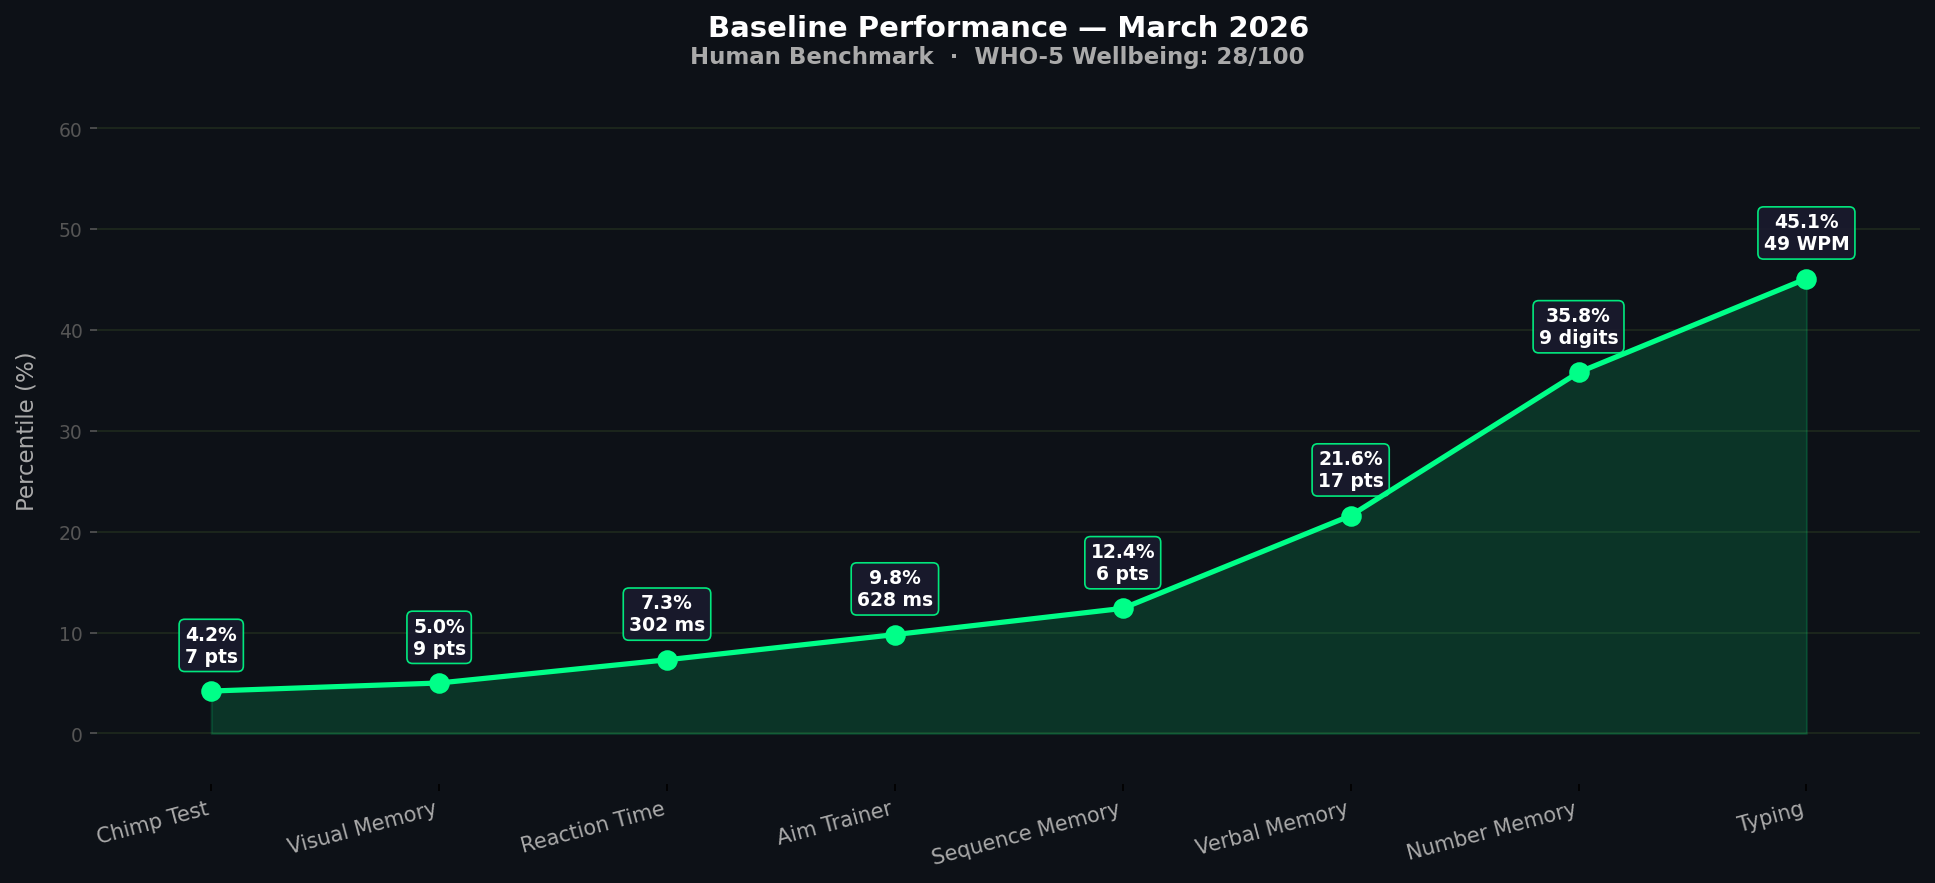
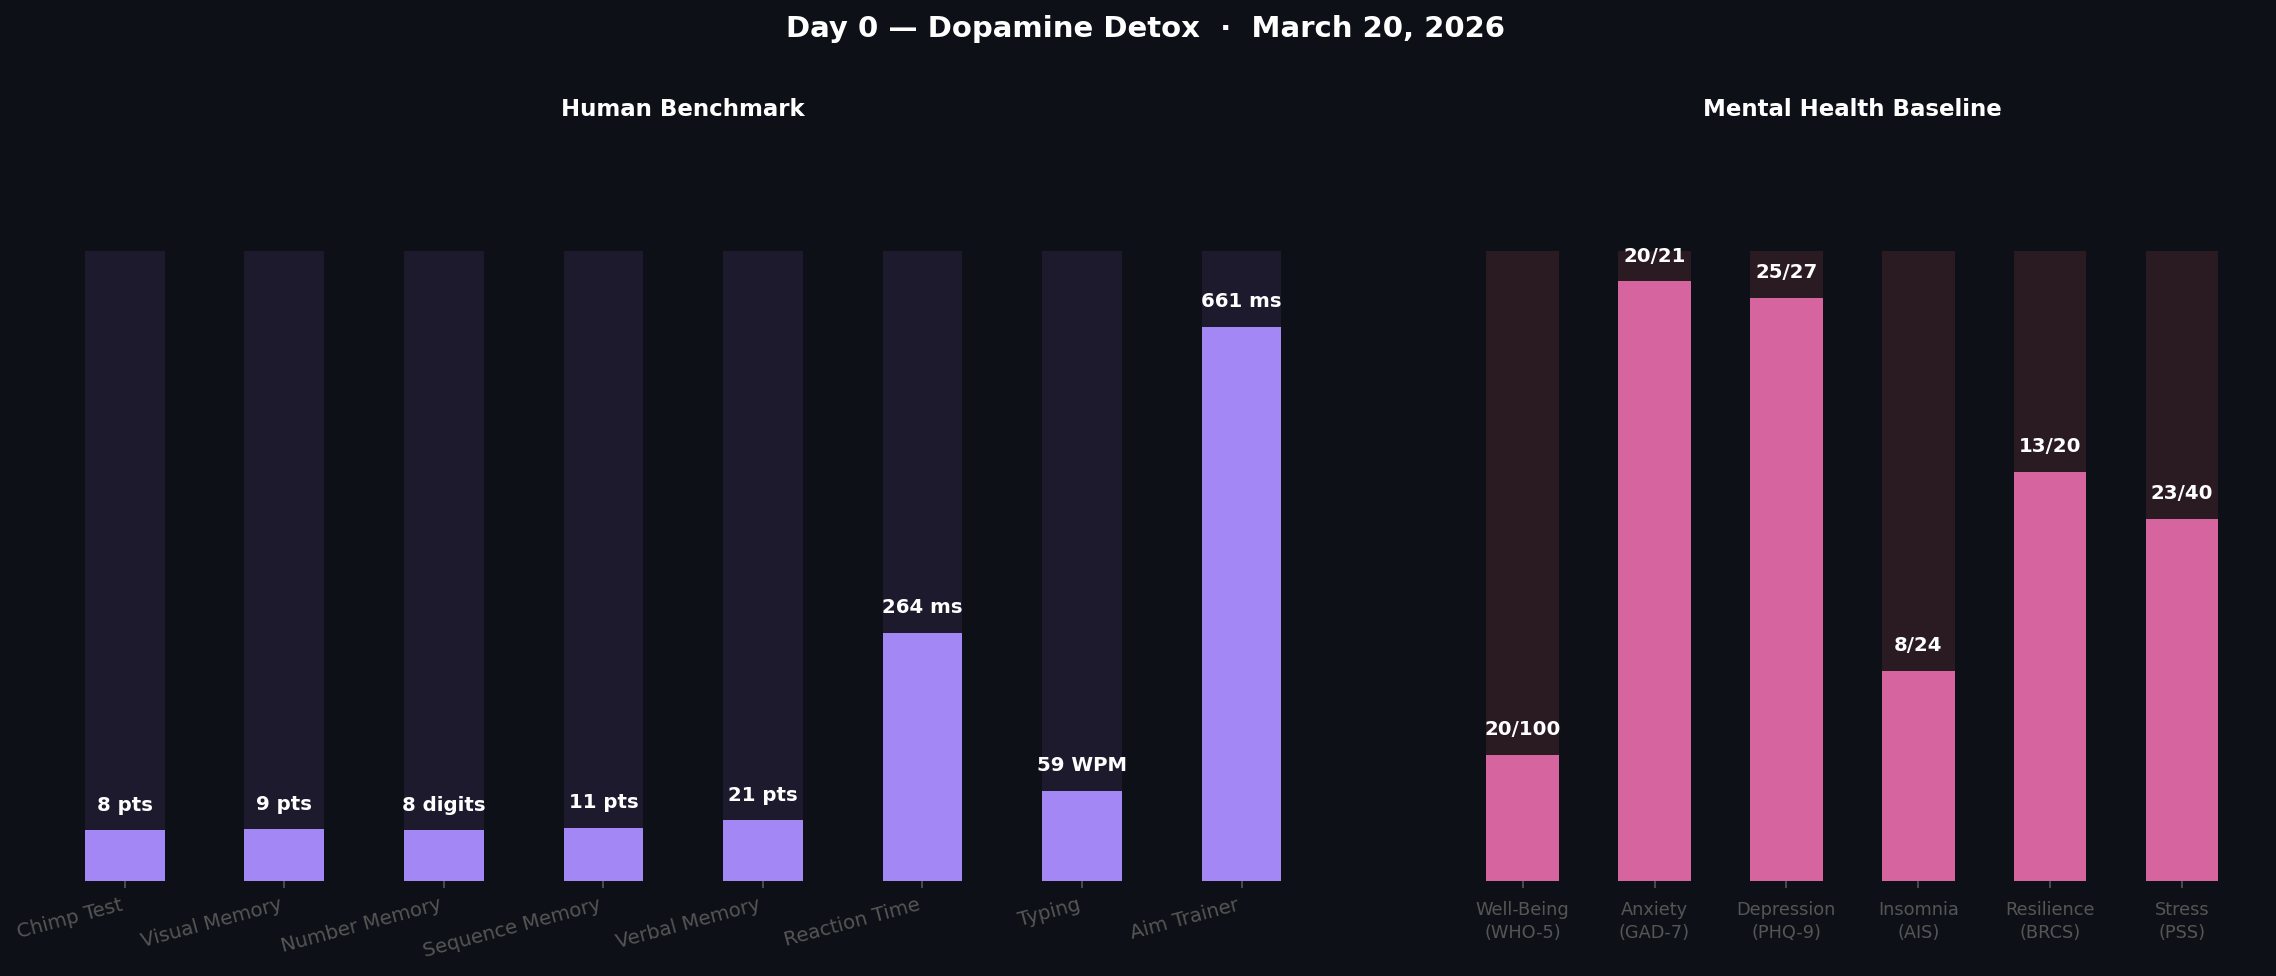
music blg update

diff --git a/content/posts/music_blog.md b/content/posts/music_blog.md
@@ -1,36 +1,53 @@
 ---
 title: "Silence is Loud"
-date: 2026-03-18T21:00:00+05:30
-description: "I quit chasing constant dopamine from March 19th till the end of 2026. This is that experiment."
+date: 2026-03-20T16:00:00+05:30
+description: "I quit chasing constant dopamine from March 21st till the end of 2026. This is that experiment."
 draft: false
 tags: ["music", "social-media", "detox", "dopamine", "brain-fog", "brain-rot"]
 ---
-As I was getting through my internship tasks for the day, I found myself mindlessly scrolling through Reels — my right thumb moving up and up, each dopamine hit pulling me in for one more. Before I knew it, evening had arrived and I hadn't finished a single task.
+The night before, I had everything I needed — time, a quiet room, and a clear task. As a Teaching Assistant for Linear Algebra, I was supposed to prepare a set of lab questions before heading to university the next morning. Simple enough. Except it wasn't.
 
-What scared me most was when I opened Digital Wellbeing. The numbers stared back at me like a verdict: Instagram at an all-time high of **5 hours** on average. WhatsApp at **1.5 hours** — but the truly unsettling part wasn't the time, it was the **250 times** I had opened it throughout the day. Games clocked in at another **2.5 hours**. It hit me hard.
+I sat down, opened my laptop, and somehow ended up deep in an F1 game, headphones on, fully committed to a virtual race I absolutely did not need to win. Between laps, I'd drift to Instagram — one reel, then another, then another. The lab questions sat in a tab I kept minimizing. I told myself I'd get to it. I didn't. Sleep arrived before the preparation did, and I let it.
 
-That's when the bigger picture came into focus — how much time I was hemorrhaging, and how much potential was slipping through my fingers with it. And then there was the physical toll: hours of audio pumping into my ears every day, a habit that, if left unchecked, could seriously damage my hearing.
+I woke up the next morning groggy, unrested, and already behind. Late nights have a way of collecting their debt in the early hours. But I got up anyway, got dressed, and headed out — telling myself I'd prepare on the metro. *I'll read on the way. It'll be fine.*
+
+And I did try. Without the option to scroll or play, my hands were idle, so I did the next best thing: I put on music, let it fill the silence, and skimmed through the material on my phone. A compromise. A dopamine substitute. It was better than nothing, but not by much.
+
+Then came the class.
+
+There weren't many students — a long weekend had kept most of them away, which, honestly, felt like mercy. But even in that small room, with a forgiving audience, I fumbled. My explanations were unclear, my thoughts scattered. I could feel the gap between what I knew and what I was able to articulate in that moment. It was uncomfortable in a way that went beyond embarrassment.
+
+Afterwards, I sat with a quiet, creeping fear — not about the class, but about me. About the pattern. The procrastination, the distraction, the need for constant stimulation, the inability to simply sit and do the thing I needed to do.
+
+*What is happening to me?*
+
+I didn't have to wonder for long. That evening, almost by accident, I opened Digital Wellbeing. The numbers stared back at me like a verdict: Instagram at an all-time high of **5 hours** on average. WhatsApp at **1.5 hours** — but the truly unsettling part wasn't the time, it was the **250 times** I had opened it throughout the day. Games clocked in at another **2.5 hours**.
+
+It hit me hard.
+
+That's when the bigger picture snapped into focus — how much time I was hemorrhaging, and how much potential was quietly slipping away with it. There was a physical cost too: hours of audio pumping into my ears every single day, a habit that, left unchecked, could do real damage over time.
 
 I acted immediately. I deleted every offending app. I set a WhatsApp timer to zero minutes, with four scheduled check-ins — 7 AM, 1 PM, 5 PM, and 9 PM, five minutes each. Then I switched on grayscale mode. Just like that, my phone turned into a brick.
 
 Something shifted almost instantly. Like my brain was being pulled apart at the seams.
 
-That discomfort was the signal I needed. I sat down in front of my laptop and did two things: started drafting a dopamine detox plan, and began writing this blog.
+That discomfort was the signal I needed. I sat down in front of my laptop, started drafting a dopamine detox plan, and began writing this.
 
 ### Protocol
 
 This is the protocol I will be following until the end of the year.
 
-1. **Music**: I deleted all my music apps from all my devices. Music was my most constant escape — headphones on from the moment I woke up to the moment I slept. It had to be the first thing to go.
-2. **Instagram**: I deleted the Instagram app from all my devices. It was my biggest time sink — 5–6 hours of mindless scrolling daily that left me with nothing at the end of it.
-3. **YouTube**: I disabled the YouTube app from my phone and on my laptop disabled it entirely. I only unblock it when I have a specific, purposeful reason to — and even then, strictly through the Unhook extension. This is because during my last detox attempt I watched a lot of youtube through incognito thinking it's fine but it breaks the whole purpose of the detox. YouTube and Google history are also disabled to prevent recommendations and Shorts from creeping in. No rabbit holes.
-4. **Games**: I deleted all games from all my devices. Pure time filler with zero return. Easy cut.
-5. **WhatsApp**: Can't fully delete this one — it's how I stay connected with people. So I caged it instead. Timer set to 0 minutes, four check-ins a day at 7 AM, 1 PM, 5 PM, and 9 PM five minutes each. I set alarms for these time slots on my phone so that I only use my phone during those times.
-6. **Headphones/Earphones**: This can only be used in emergency situations, such as office meetings or when I need to listen to audio without disturbing someone.
-7. **LLM Usage**: For now, using AI tools (Claude, ChatGPT, etc.) is fine. They are a legitimate part of my work and learning. But during the last detox attempt, usage crept up to a point where it started feeling like a different kind of endless loop — always asking, never sitting with a problem. If that pattern returns, I'll introduce time blocks for LLM use, the same way I did with WhatsApp. It's not a restriction yet, just a boundary I'm aware of and will enforce if needed.
-8. **Sunday Routine**: Every Sunday, I don't look at my phone at all. No check-ins, no alarms, nothing. It is the one day of the week that is completely phone-free. A full reset.
-9. **Overall Phone Time**: The phone only comes out during the four daily WhatsApp check-in windows. First 5 minutes are for WhatsApp, then an optional extra 5 minutes for anything else that genuinely needs attention — mail, calendar, anything urgent. Once the window closes, the phone goes back down.
-10. **Grayscale Mode**: All color stripped out of the phone display. No vibrant thumbnails, no eye-catching notifications, nothing visually rewarding about picking it up. A deliberately dull screen is a surprisingly effective deterrent.                                                            
+1. **Instagram**: Deleted from all devices, completely.
+2. **Listening to Music**: Deleted all music streaming apps from all devices, completely.
+3. **Games**: Deleted from all devices, completely.
+4. **YouTube**: Disabled on my phone. On my laptop, blocked entirely — only unblocked when there is a specific, purposeful reason to, and even then, strictly through the Unhook extension. Watch history and recommendations are also disabled to prevent Shorts and autoplay from pulling me back in.
+5. **WhatsApp & Phone Time**: Timer set to zero minutes. Four scheduled check-ins a day — 7 AM, 1 PM, 5 PM, and 9 PM — with alarms set for each. The first five minutes are for WhatsApp. An optional extra five minutes follows for anything else that genuinely needs attention: mail, calendar, something urgent. When the window closes, the phone goes down. Outside of these four windows, the phone does not come out at all.
+6. **Headphones & Earphones**: Reserved for genuine emergencies only — office meetings, or situations where audio needs to be heard without disturbing others. Years of constant audio adds up, and I am not willing to pay that bill.
+7. **Blocking Loopholes**: Any app or website that could become a distraction is blocked using a website blocker or app timer — no exceptions. Social media accounts are not to be kept logged in on any device other than the phone, so there is no easy back door through a laptop browser.
+8. **Purposeful Consumption**: No mindless news or media. The only content worth consuming is what directly contributes to growth — AI research, technical blogs, long-form YouTube videos, or podcasts that teach something useful. If it isn't moving me forward, it doesn't get my attention.
+9. **TV Time**: Strictly weekends only — Sunday by default, Saturday only if absolutely necessary. Not a daily habit, not a nightly wind-down. A deliberate choice, not a reflex.
+10. **Sleep**: In bed by 11 PM, up by 6 AM. No exceptions.
+11. **Emergencies & Social Pressure**: The check-in schedule holds except in two cases — someone is in physical danger, or something carries a financial or legal consequence if not addressed within hours. Everything else waits for the next window. The people closest to me know my schedule, so the pressure largely does not arise.                                                    
 
 ### Mark it on your calendar
 
@@ -38,14 +55,15 @@ I also placed a calendar event on March 19th, 2026, to mark the start of the dop
 
 ### How to Fill the Silence?
 
-Now that I have cut so much out of my daily 24 hours, I need to fill that silence — otherwise I'll just slip back into the old routine. Here's how I plan to do it:
+Now that I have cut so much out of my daily 24 hours, I need to fill that silence — otherwise I'll just slip back into the old routine. Here's how I plan to do it. These are targets, not rigid daily requirements — missing a day does not mean the experiment is over.
 
-1. **Silence during exercise and travel**: One commute will be in complete silence — just me and my thoughts. The other I'll use to read.
-2. **Reading**: At least 1 hour a day — books, articles, research papers, anything that helps me grow.
-3. **DSA**: At least 1.5 to 2 hours a day on LeetCode, solving problems and learning Data Structures and Algorithms along the way.
-4. **Journaling**: 5 minutes every morning and 5 minutes every night in my diary.
-5. **Maths**: Something I have wanted to do for a long time. Since AI is fundamentally built on mathematics, I want to actually understand it — Linear Algebra, Calculus, the works. At least 30 minutes to 1 hour daily.
-6. **AI Fundamentals**: Another thing I have been wanting to do for a long time. At least 30 minutes to 1 hour daily — understanding the foundations, not just using the tools.
+1. **Silence during exercise and travel**: Morning commute is for reading. Evening commute is just me and my thoughts — no audio, no screen, nothing. Exercise is the same — no distractions, just presence.
+2. **Reading**: At least 1 hour a day — books, articles, blogs, anything worth reading.
+3. **Physical Movement**: At least 30 minutes of movement every day, non-negotiable.
+4. **DSA**: At least 1.5 hours a day on LeetCode, solving problems and learning Data Structures and Algorithms along the way.
+5. **Journaling**: 5 minutes every morning and 5 minutes every night in my diary.
+6. **Maths**: At least 30 minutes daily — Linear Algebra, Calculus, the works. Since AI is fundamentally built on mathematics, I want to actually understand it, not just use it.
+7. **AI Fundamentals**: At least 30 minutes daily — understanding the foundations, not just using the tools.
 
 ### What if I Slip or Break the Routine?
 
@@ -55,9 +73,13 @@ So instead of quitting, I'll document it. Every time I break the routine, I'll l
 
 This won't be easy. Ups and downs are expected. The goal isn't perfection — it's to keep going.
 
-### What if I Get Negative Thoughts? 
+### What if I Get Negative Thoughts?
 
-I anticipate this will happen, especially in the beginning. Usually, I use music to drown out weird or sad thoughts. Now, I will face them. I plan to simply observe them without reacting, and see if the silence eventually helps me process them better. I believe that over time, these thoughts will diminish.
+I anticipate this will happen, especially in the beginning. Usually, I use music to drown out weird or sad thoughts. Now, I will face them. I plan to simply observe them without reacting, and see if the silence eventually helps me process them better.
+
+But if things go too far south, I won't just sit and suffer. I'll pull myself out by stepping into a hobby, taking a walk in nature, or watching something on TV — and then journal it out somewhere I can be completely honest with myself. No bottling it up, just getting it out of my head and onto the page.
+
+I believe that over time, these thoughts will diminish. The silence that once felt uncomfortable will start to feel like home.
 
 ### What about accidental music? 
 
@@ -69,31 +91,54 @@ Before I begin, I want to establish a baseline — an honest snapshot of where m
 
 I ran two sets of tests:
 
-**Human Benchmark** — a cognitive test suite measuring reaction time, memory, and processing speed.
+**Human Benchmark** — a cognitive test suite measuring different aspects of brain performance. Eight tests in total:
 
-**WHO-5 Wellbeing Index** — a standardised mental wellbeing questionnaire scored out of 100.
+- **Chimp Test**: How well you remember and sequence visual information, like a chimpanzee memory task.
+- **Visual Memory**: How many tiles you can remember and recall on a grid.
+- **Number Memory**: The longest number you can hold in your working memory.
+- **Sequence Memory**: How long you can follow and repeat a growing pattern.
+- **Verbal Memory**: How many words you can remember across repeated rounds.
+- **Reaction Time**: How fast you respond to a visual stimulus.
+- **Typing**: How fast and accurately you type, measured in words per minute.
+- **Aim Trainer**: How quickly you can click on targets — a measure of motor precision and focus.
+
+**Mental Health Baseline** — six standardised tests measuring different dimensions of mental wellbeing:
+
+- **WHO-5 Well-Being Index**: Overall psychological wellbeing, scored out of 100.
+- **GAD-7**: Measures anxiety severity, scored out of 21.
+- **PHQ-9**: Screens for depression severity, scored out of 27.
+- **Athens Insomnia Scale (AIS)**: Measures sleep quality, scored out of 24. A score above 6 indicates insomnia.
+- **Brief Resilient Coping Scale (BRCS)**: Measures how well you cope with stress, scored out of 20.
+- **Perceived Stress Scale (PSS)**: Measures how stressed you feel in general, scored out of 40.
 
 ![Baseline Cognitive Performance](/images/graph1.png)
 
-The scores speak for themselves — especially the wellbeing score, which the test flags as concerning.
+The numbers are on the graph — and they are not flattering. A well-being score of 20 out of 100. Anxiety at 20 out of 21. Depression at 25 out of 27. Insomnia above the clinical cutoff. These are not numbers I expected to see staring back at me, but they are honest, and that is the point.
 
-This is the before. I will repeat these exact tests at the halfway point and again on January 2nd, 2027 — and report back with the full results.
+This is the before. I will repeat these tests every week to track how things shift over time — and on January 2nd, 2027, I will bring it all together with the full results and a combined graph showing everything from Day 0 to the end.
 
 You can take the same tests yourself here:
 - [Human Benchmark](https://humanbenchmark.com)
-- [WHO-5 Wellbeing Index](https://www.mymentalhealth.guide/get-tested/well-being-test-who-5)
+- [Mental Health Tests](https://www.mymentalhealth.guide/get-tested)
 
 
 ### My Hypothesis
 
-I am treating this strictly as an experiment. My hypothesis is that by removing the constant dopamine hits from music, my baseline boredom will increase, forcing my brain to seek stimulation through coding, reading, and maths instead.
+I am treating this strictly as an experiment, and every experiment needs a hypothesis.
 
-I also believe that silence is necessary for original thought. I expect that without the constant input of external noise, my brain will finally have the space to process information in the background, leading to clearer thinking and the generation of new, unique ideas.
+By removing the constant dopamine hits — the reels, the music, the games, the endless scrolling — I believe my baseline tolerance for boredom will increase. And when the brain is bored enough, it stops waiting for entertainment to arrive. It starts making its own. That is when it reaches for coding, reading, mathematics, writing — things that are harder, slower, and infinitely more rewarding.
 
-I anticipate the first 2–3 weeks to be difficult, filled with withdrawal symptoms and phantom music (hearing songs playing in my head even when it is silent), but I hope to reach a state of heightened mental clarity and creativity by Month 3.
+I also believe that silence is necessary for original thought. Every waking hour filled with noise is an hour the brain never gets to process what it has already taken in. Strip that away, and something shifts. Thoughts connect differently. Ideas that were buried under the noise start surfacing on their own.
+
+The first 2–3 weeks will likely be brutal — withdrawal, restlessness, and phantom music playing in my head even when the room is completely silent. That last part is real, and I am genuinely curious to see how long it lasts.
+
+But by Month 3, my hypothesis is this: clearer thinking, sharper focus, and a mind that no longer needs external noise to function. A brain that has learned to be comfortable in its own company.
+
+We will see.
 
 ### The End Game
-This experiment is no longer about perfection.
+
+This experiment is not about perfection.
 
 It is about observing patterns, eliminating weaknesses in the system, and recalibrating my baseline stimulation through the end of the year.
 
@@ -103,7 +148,7 @@ Until the end of the year, I will be logging every day and every week based on t
 
 1. Mood (Scale of 1-10)
 2. Focus (Scale of 1-10)
-3. Urge to listen (Scale of 1-10)
+3. Urge to relapse (Scale of 1-10)
 4. Any phantom music? (If yes mention the song names)
 5. Daily summary and any notes if required (just a brief summary of the day wrt the dopamine detox)
 
@@ -122,6 +167,6 @@ See you on the other side.
 
 ### My Dopamine Detox Google Sheets Template
 
-Link - [Dopamine Detox Google Sheets Template](https://docs.google.com/spreadsheets/d/1bsq9L5ibEK-Y3_4-t2jcIh4rV8xBM2TdNnIoMMlN-nM/edit?gid=0#gid=0)
+I have made my tracking template publicly available — you can access it [here](https://docs.google.com/spreadsheets/d/1bsq9L5ibEK-Y3_4-t2jcIh4rV8xBM2TdNnIoMMlN-nM/edit?gid=0#gid=0)
 
-**Note:** This template reflects what works for me, which may not work the same for you, so feel free to change it in a way that suits you. Make sure to set a daily alarm or calendar event so you remember to log your day.
+**Note:** This template reflects what works for me, which may not work the same for you — feel free to adapt it however suits you. And set a daily alarm or calendar event so you actually remember to log.
